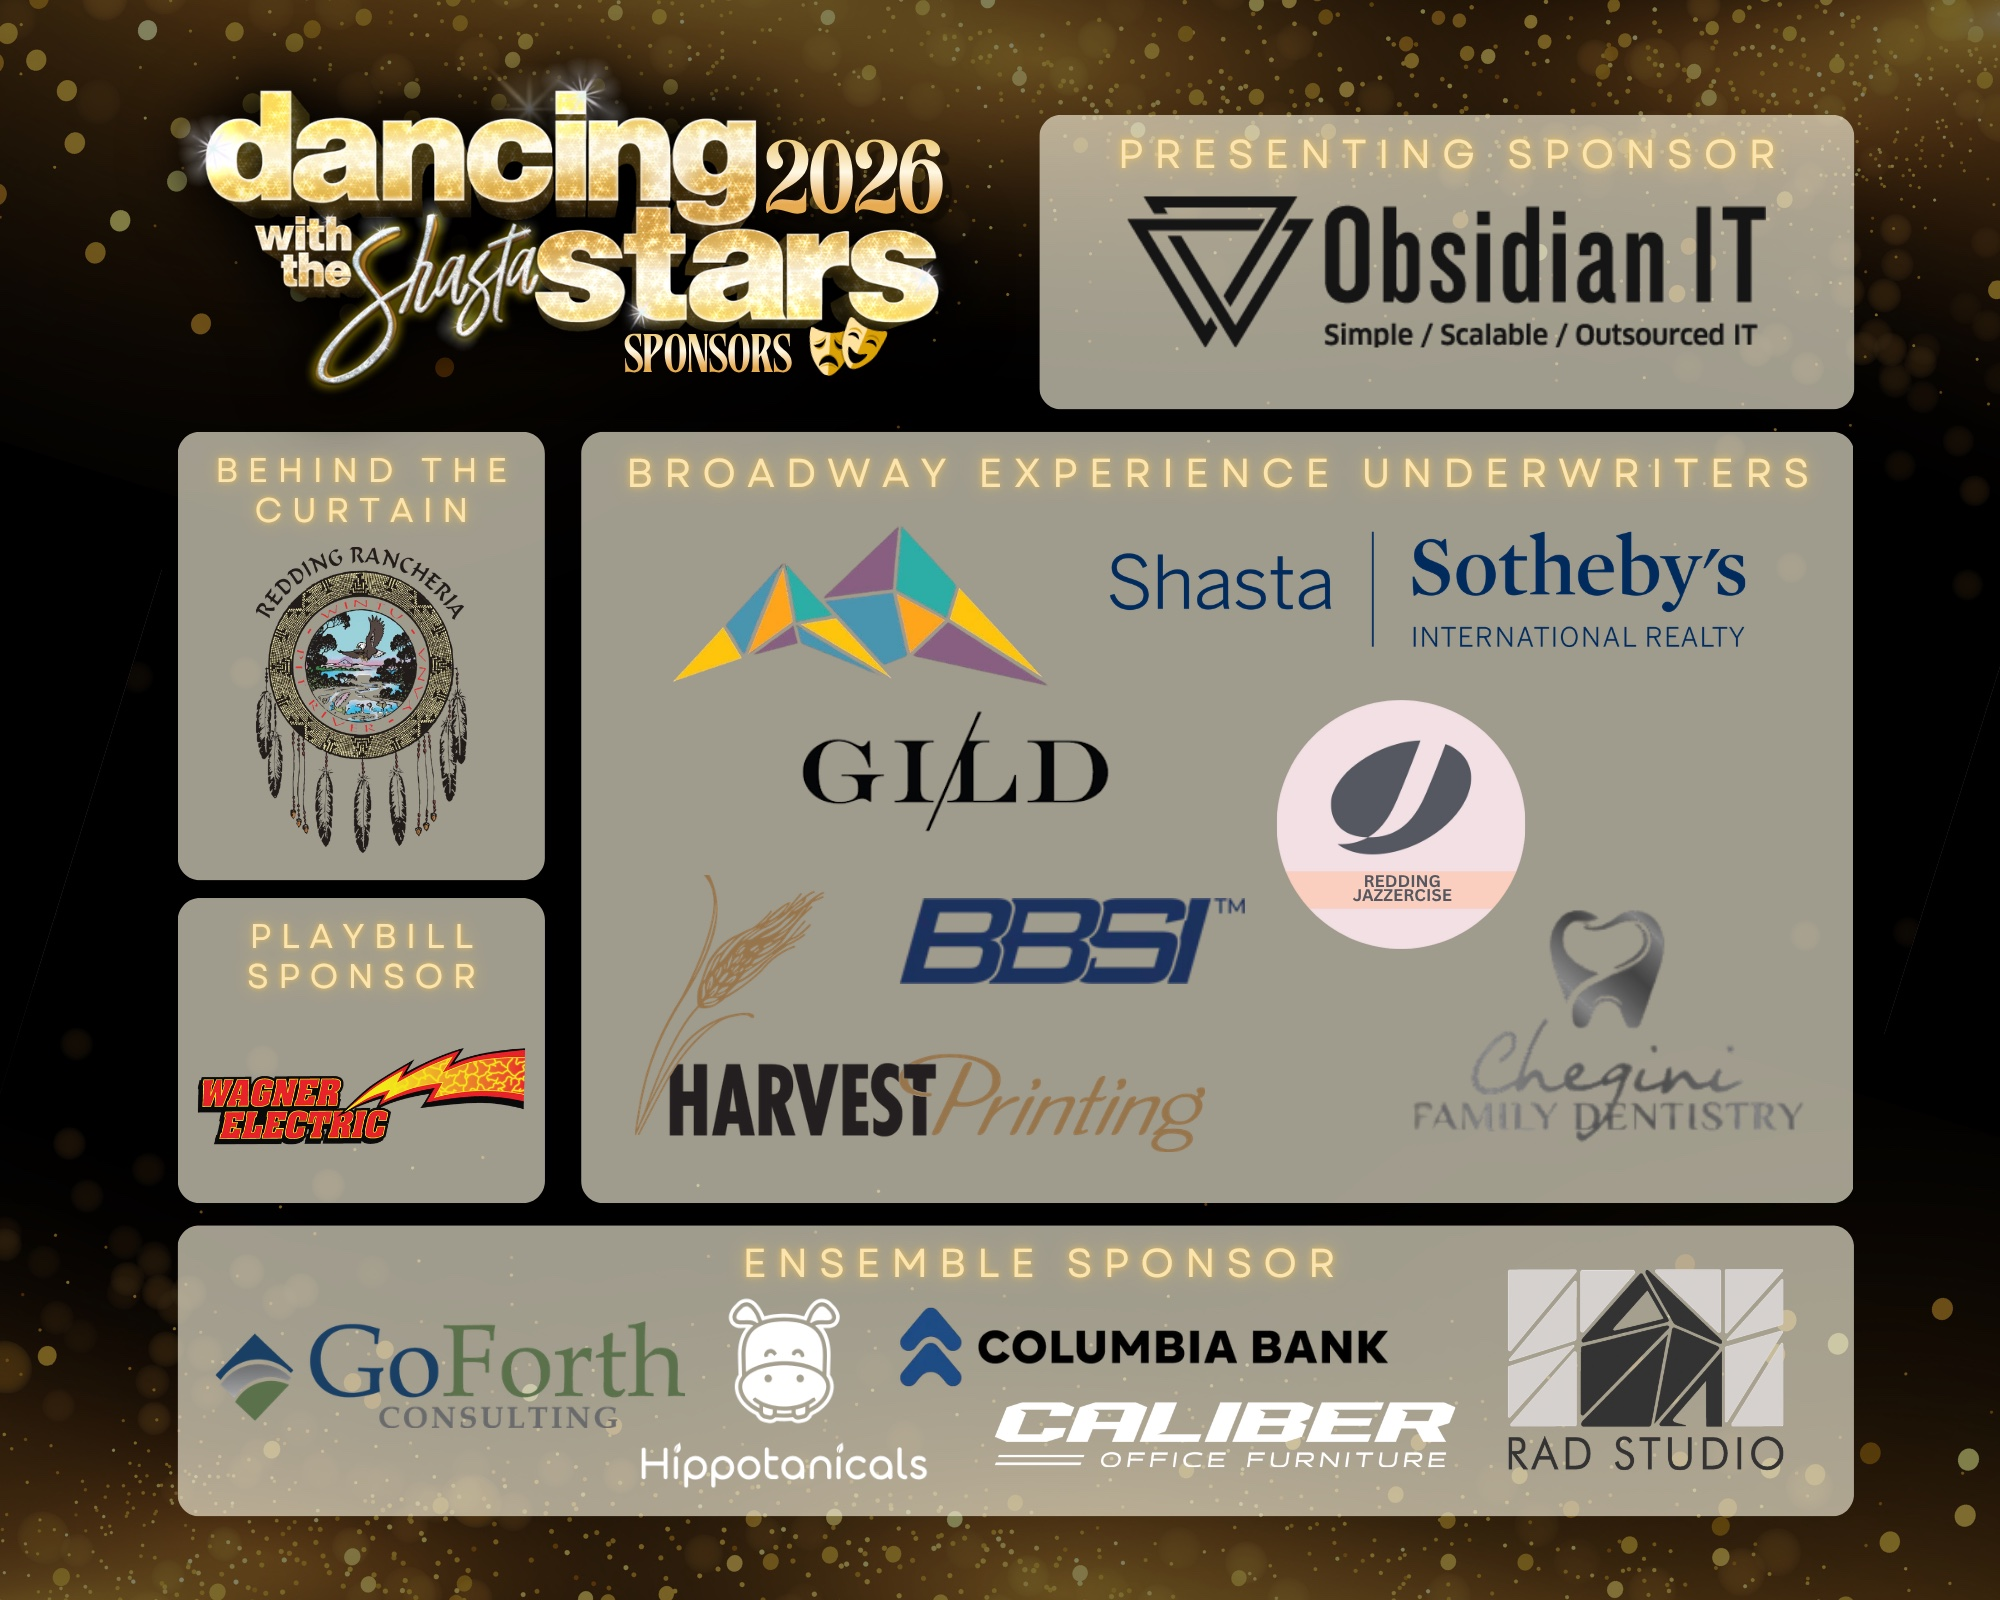
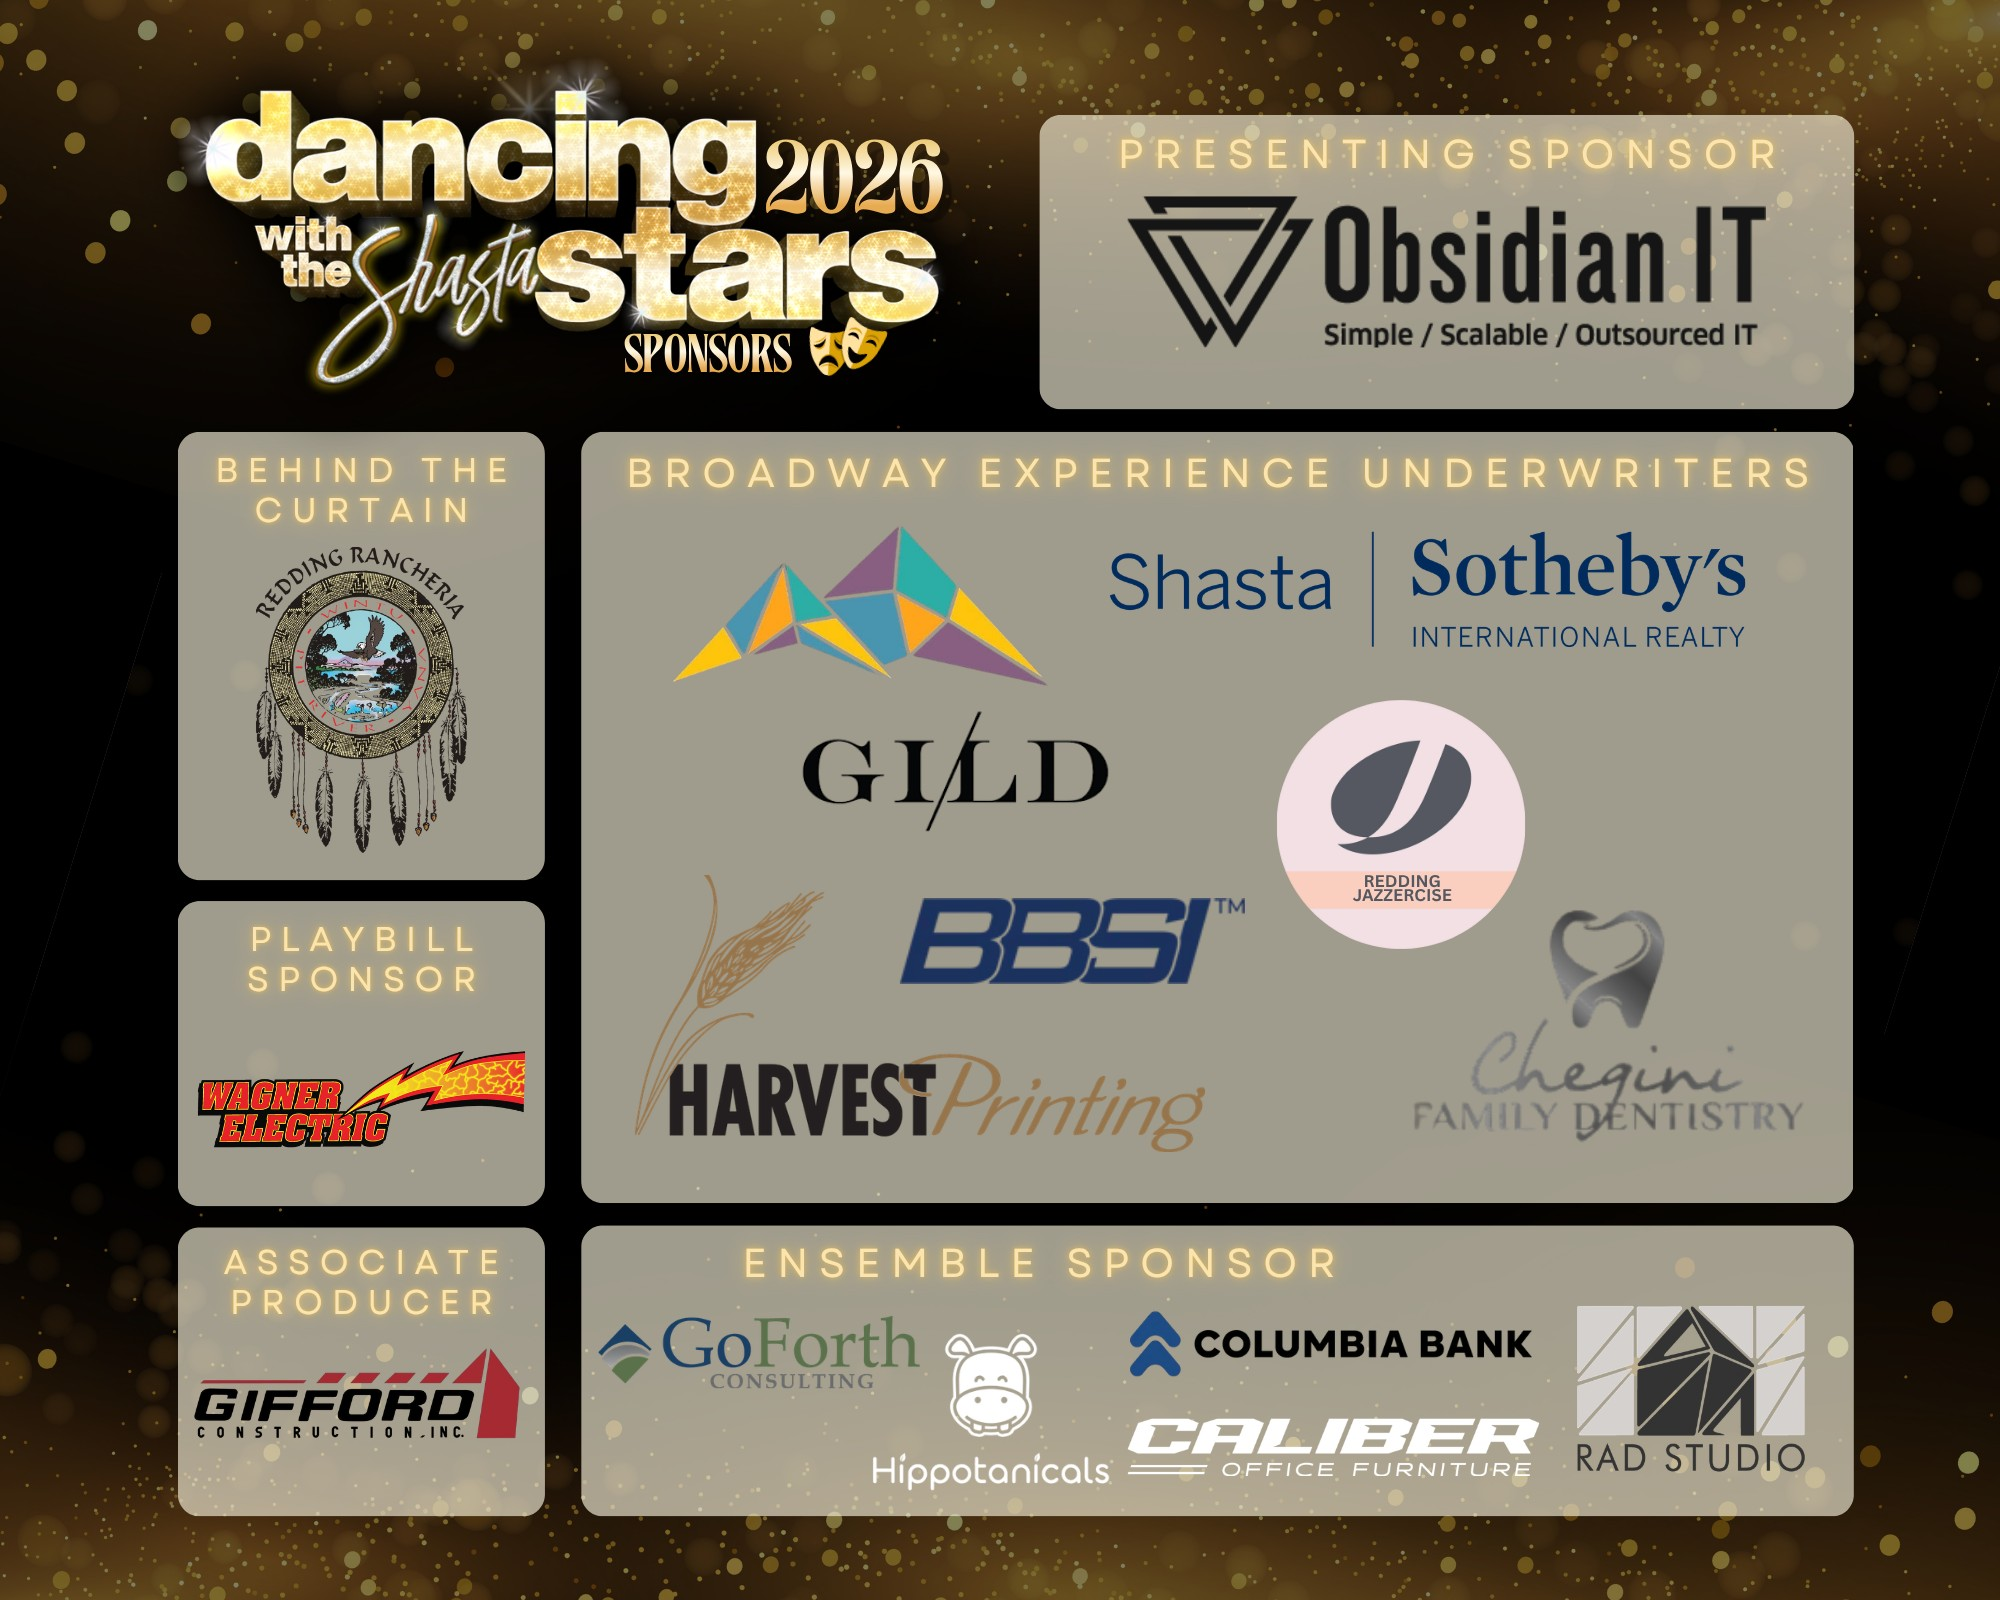
Update Cops & Cones + DWTS sponsor listings per Morgan's 8/25 send
Cops & Cones sponsors.json: 32 Below + BBSI -> full 2026 roster (adds
Wagner Electric, Linda Santiago, Caliber Office, Wave Technologies).
New logo assets cropped from Morgan's combined 'THANK YOU TO OUR
SPONSORS' graphic (she sent one flattened image, not individual files).

DWTS: swapped DWTSS-2026-Sponsors.jpg to Morgan's updated graphic
(adds Playbill Sponsor Wagner Electric + Associate Producer Gifford
Construction tiers) and updated alt text to match in prod + preview.

diff --git a/osp/pages/dancing-with-the-stars-2026/preview/dancing-with-the-stars-2026.html b/osp/pages/dancing-with-the-stars-2026/preview/dancing-with-the-stars-2026.html
@@ -155,7 +155,7 @@
         <div class="pilot-holder" style="text-align:center">
           <h3 class="heading-26 dwtss-2025-save-the-date" style="color:var(--osp)">Thank You To Our 2026 Sponsors<br></h3>
           <div class="yellow-div" style="margin-left:auto;margin-right:auto"></div>
-          <div class="div-block-39 _2" style="background-color:transparent;width:100%;max-width:750px;height:auto;margin:0 auto;display:block"><img src="https://raw.githubusercontent.com/Mat-Longinow/arch/main/osp/pages/images/DWTSS-2026-Sponsors.jpg" loading="lazy" alt="Dancing with the Shasta Stars 2026 sponsors. Presenting Sponsor Obsidian IT. Behind the Curtain, Redding Rancheria. Broadway Experience Underwriters: Shasta Sotheby&#39;s International Realty, GILD, BBSI, Harvest Printing, Redding Jazzercise, Chegini Family Dentistry. Ensemble Sponsors: GoForth Consulting, Hippotanicals, Columbia Bank, Caliber Office Furniture, RAD Studio." style="width:100%;height:auto;max-width:750px;margin:0 auto;display:block"></div>
+          <div class="div-block-39 _2" style="background-color:transparent;width:100%;max-width:750px;height:auto;margin:0 auto;display:block"><img src="https://raw.githubusercontent.com/Mat-Longinow/arch/main/osp/pages/images/DWTSS-2026-Sponsors.jpg" loading="lazy" alt="Dancing with the Shasta Stars 2026 sponsors. Presenting Sponsor Obsidian IT. Behind the Curtain, Redding Rancheria. Broadway Experience Underwriters: Shasta Sotheby&#39;s International Realty, GILD, BBSI, Harvest Printing, Chegini Family Dentistry, Redding Jazzercise. Playbill Sponsor: Wagner Electric. Associate Producer: Gifford Construction. Ensemble Sponsors: GoForth Consulting, Hippotanicals, Columbia Bank, Caliber Office Furniture, RAD Studio." style="width:100%;height:auto;max-width:750px;margin:0 auto;display:block"></div>
         </div>
       </div>
     </div>

diff --git a/osp/pages/dancing-with-the-stars-2026/production/dancing-with-the-stars-2026.html b/osp/pages/dancing-with-the-stars-2026/production/dancing-with-the-stars-2026.html
@@ -155,7 +155,7 @@
         <div class="pilot-holder" style="text-align:center">
           <h3 class="heading-26 dwtss-2025-save-the-date" style="color:var(--osp)">Thank You To Our 2026 Sponsors<br></h3>
           <div class="yellow-div" style="margin-left:auto;margin-right:auto"></div>
-          <div class="div-block-39 _2" style="background-color:transparent;width:100%;max-width:750px;height:auto;margin:0 auto;display:block"><img src="https://raw.githubusercontent.com/Mat-Longinow/arch/main/osp/pages/images/DWTSS-2026-Sponsors.jpg" loading="lazy" alt="Dancing with the Shasta Stars 2026 sponsors. Presenting Sponsor Obsidian IT. Behind the Curtain, Redding Rancheria. Broadway Experience Underwriters: Shasta Sotheby&#39;s International Realty, GILD, BBSI, Harvest Printing, Redding Jazzercise, Chegini Family Dentistry. Ensemble Sponsors: GoForth Consulting, Hippotanicals, Columbia Bank, Caliber Office Furniture, RAD Studio." style="width:100%;height:auto;max-width:750px;margin:0 auto;display:block"></div>
+          <div class="div-block-39 _2" style="background-color:transparent;width:100%;max-width:750px;height:auto;margin:0 auto;display:block"><img src="https://raw.githubusercontent.com/Mat-Longinow/arch/main/osp/pages/images/DWTSS-2026-Sponsors.jpg" loading="lazy" alt="Dancing with the Shasta Stars 2026 sponsors. Presenting Sponsor Obsidian IT. Behind the Curtain, Redding Rancheria. Broadway Experience Underwriters: Shasta Sotheby&#39;s International Realty, GILD, BBSI, Harvest Printing, Chegini Family Dentistry, Redding Jazzercise. Playbill Sponsor: Wagner Electric. Associate Producer: Gifford Construction. Ensemble Sponsors: GoForth Consulting, Hippotanicals, Columbia Bank, Caliber Office Furniture, RAD Studio." style="width:100%;height:auto;max-width:750px;margin:0 auto;display:block"></div>
         </div>
       </div>
     </div>
